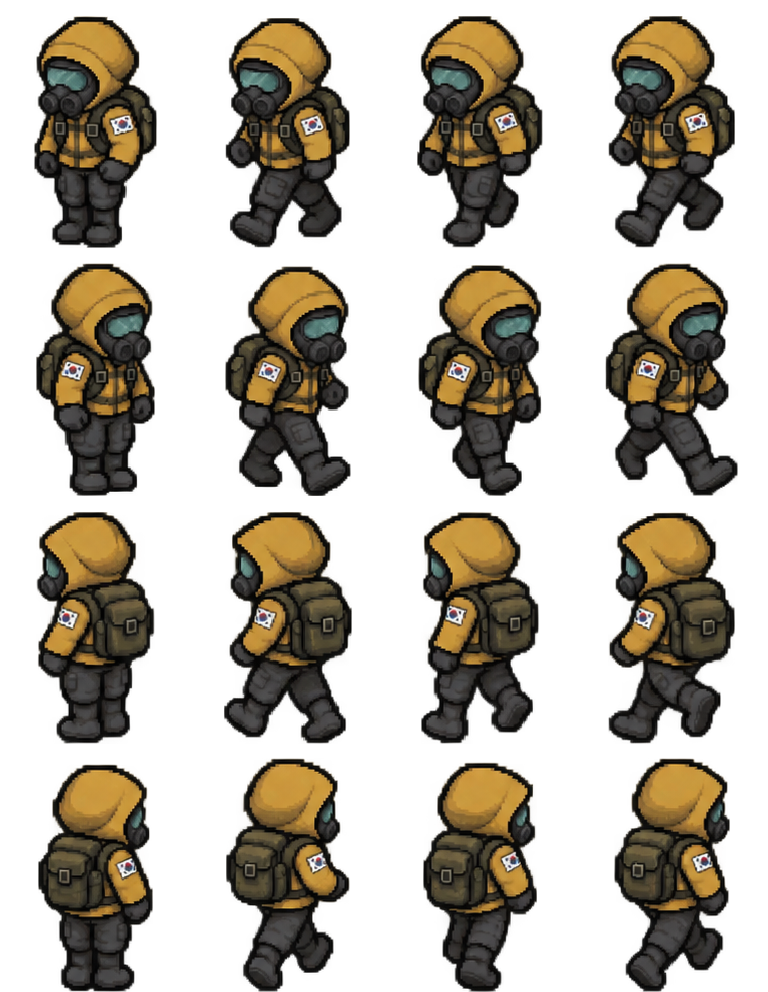
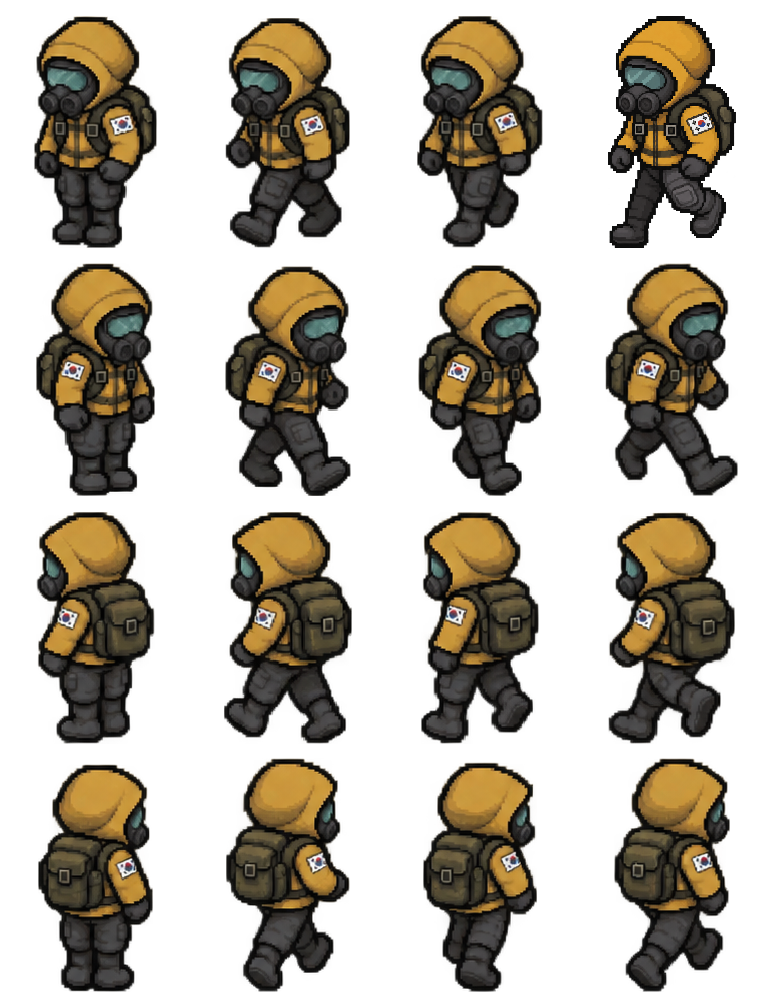
좌하향 걷기에서 반대 발을 내딛는 자세 수정

Changed region(s): [[0.7812, 0.0, 0.9688, 0.25]]

diff --git a/assets/ANIMATION_GUIDE.md b/assets/ANIMATION_GUIDE.md
@@ -16,6 +16,8 @@
 
 ## 대각선 네 방향
 
+좌하향 일반 걷기의 네 번째 칸은 같은 발을 다시 내밀던 자세를 교체한 것이다. 기존 시트를 내장 imagegen에 참조로 넣고, 화면 왼쪽의 먼 다리는 앞으로 디디고 오른쪽의 밝은 무릎 패드가 달린 가까운 다리는 뒤에서 들어 올리는 자세를 요청했다. 기존 2→3→4→3칸 재생 순서에서 두 디딤 자세의 앞발이 교대한다.
+
 `survivor_diagonal_walk.png`, `survivor_diagonal_sneak.png`, `survivor_diagonal_pickup.png`는 초기 도트 원본을 참조해 내장 imagegen으로 제작했다. 칸은 192×248픽셀이고, 행 순서는 좌하·우하·좌상·우상이다. 걷기와 조용히 걷기는 방향당 대기 자세와 이동 자세를 포함한 네 칸, 줍기는 방향당 한 칸이다.
 
 방향 0~3은 기존 아래·왼쪽·오른쪽·위이고, 4~7은 좌하·우하·좌상·우상이다. 대각선에서도 이동 벡터 길이를 나눠 직선과 같은 이동 속도를 유지한다. 멈춘 뒤와 줍는 동안 마지막으로 바라보던 방향을 유지한다. 원본과 같은 높이 배율과 발 기준점으로 그리고, 대각선의 넓은 실루엣을 수용할 수 있도록 칸 너비를 늘렸다.
